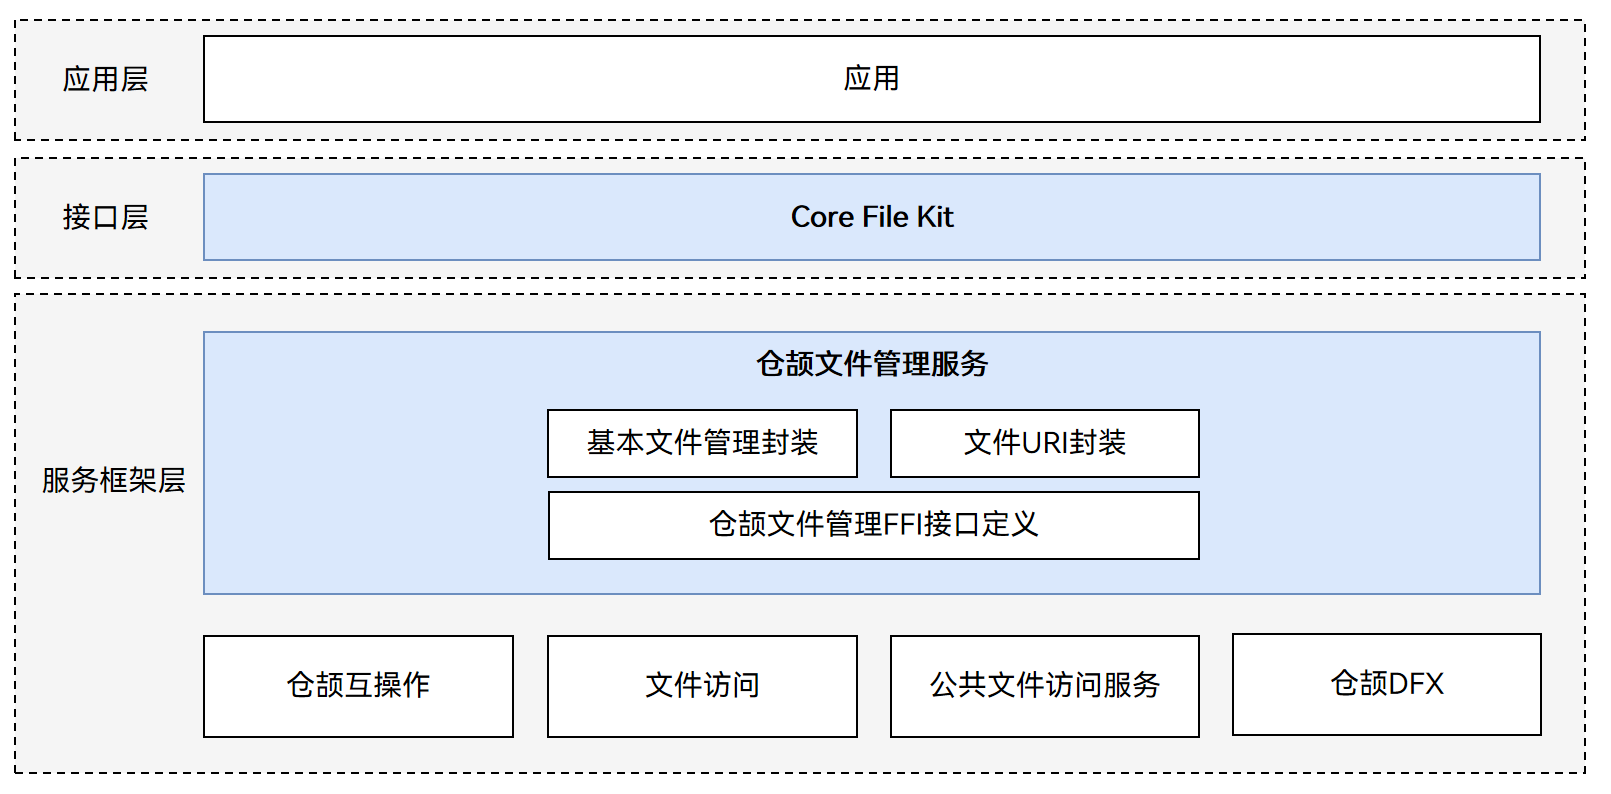
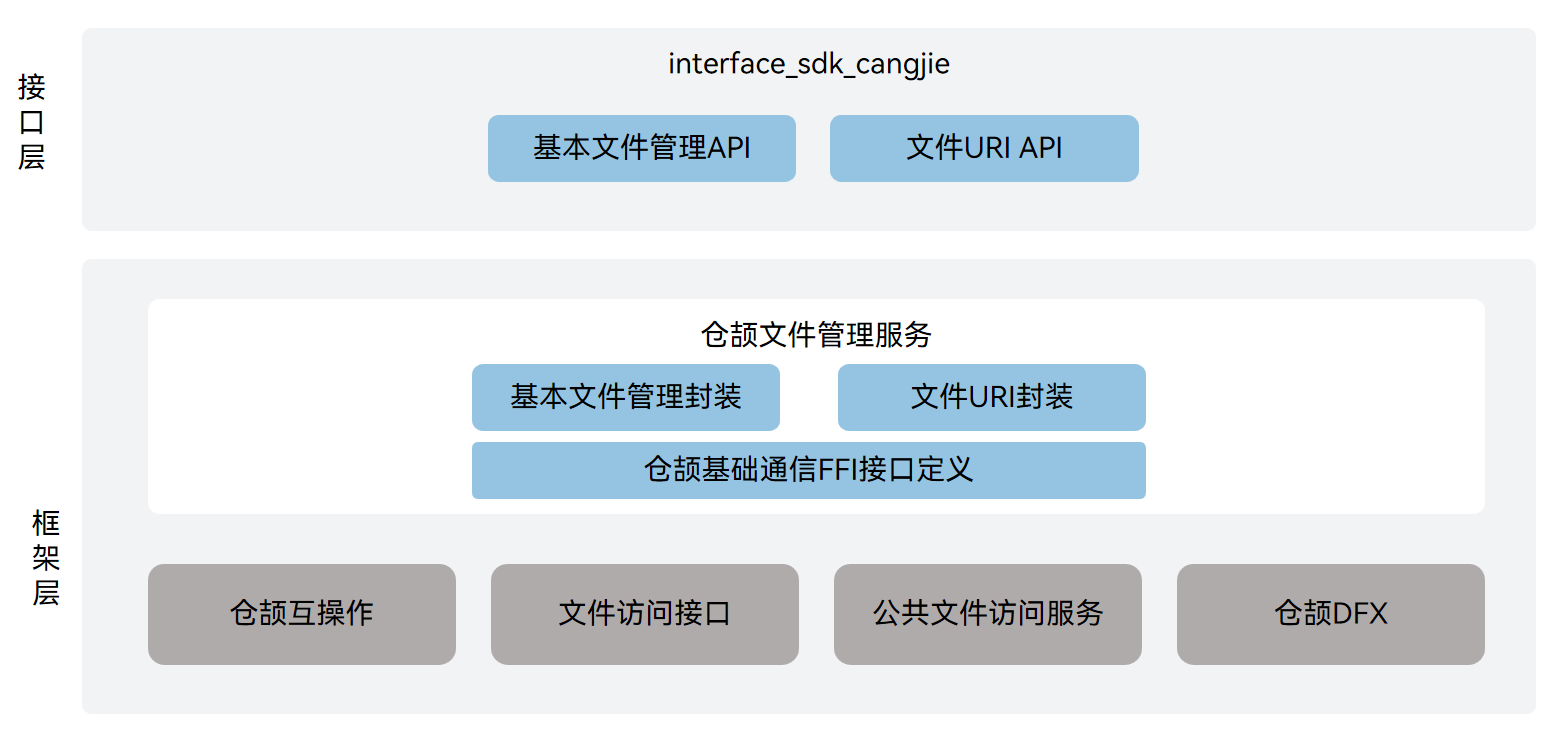
fix the internal review comments

diff --git a/README.md b/README.md
@@ -2,20 +2,32 @@
 
 ## Introduction
 
-The filemanagement_cangjie_wrapper is a Cangjie API encapsulated on OpenHarmony based on the capabilities of the file management Subsystem. The file management subsystem provides a complete file management solution for OpenHarmony. It provides secure and easy-to-use file access and comprehensive file management capabilities. The currently open file management Cangjie api only supports standard devices.
+The filemanagement_cangjie_wrapper is a Cangjie API encapsulated on OpenHarmony based on file access interfaces and public file access framework capabilities. The file management subsystem provides a complete file management solution for OpenHarmony. It provides secure and easy-to-use file access and comprehensive file management capabilities. The currently open file management Cangjie api only supports standard devices.
 
 ## System Architecture
 
 **Figure 1** Architecture of the file management subsystem
 ![filemanagement_cangjie_wrapper architecture](figures/filemanagement_cangjie_wrapper_architecture_en.png)
 
+As shown in the architecture diagram:
+
+Interface layer description:
+
+- Basic File Management API: Cangjie public interfaces based on basic file management encapsulation exposed to users.
+- File URI API: Cangjie public interfaces based on file URI encapsulation exposed to users.
+
+Framework layer description:
+
 - Basic File Management Wrapper: Provides file access capabilities, such as creating files, deleting files, modifying files, obtaining file information, and retrieving file lists.
 - File URI Wrapper: Provides an interface for obtaining the application's own URI.
 - Cangjie File Management FFI Interface Definition: Responsible for defining the C language interoperation interface with Cangjie, which is used to implement Cangjie's file management capabilities.
+
+Cangjie File Management Service Dependencies:
+
 - Cangjie ark interop: Encapsulates public interfaces for C language interoperation, and provides Cangjie tag class implementation for annotating Cangjie APIs, as well as providing BusinessException exception class definitions thrown to users.
-- File Access: Provides C language interfaces for basic files for managing files, basic files for managing directories, and streaming file reading capabilities.
-- Public File Access Services: Provides C language interfaces for file sharing and management service capabilities.
-- Cangjie DFX: Responsible for providing log interfaces for printing logs at critical paths.
+- File Api: Provides C language interfaces that can be called by the file management Cangjie interface for basic files for managing files, basic files for managing directories, and streaming file reading capabilities.
+- User File Service: Provides C language interfaces that can be called by the file management Cangjie interface for file sharing and management service capabilities.
+- Cangjie DFX: Responsible for providing log interfaces, providing Cangjie interfaces that can be called by the file management Cangjie interface to print logs at critical paths.
 
 ## Directory Structure
 
@@ -35,13 +47,6 @@ foundation/filemanagement/filemanagement_cangjie_wrapper
         └── test                      # File URI test project
 ```
 
-## Constraints
-
-Constraints on local I/O APIs:
-
--   Only UTF-8/16 encoding is supported.
--   The URIs cannot include external storage directories.
-
 ## Usage
 
 The current file management Cangjie interface provides the following functions:
@@ -49,19 +54,26 @@ The current file management Cangjie interface provides the following functions:
 - Basic file access capability.
 - File information acquisition capability.
 
-Compared with the API capabilities provided by ArkTS, the following functions are not supported at the moment:
-
-- Storage management functions.
-- Common file function.
-- Distributed capabilities.
-- Application file sharing capabilities.
-
 For filemanagement-related APIs, please refer to:
 
 -   [File Management](https://gitcode.com/openharmony-sig/arkcompiler_cangjie_ark_interop/blob/master/doc/API_Reference/source_en/apis/CoreFileKit/cj-apis-file_fs.md)
 -   [File URI](https://gitcode.com/openharmony-sig/arkcompiler_cangjie_ark_interop/blob/master/doc/API_Reference/source_en/apis/CoreFileKit/cj-apis-file_fileuri.md)
 
 For relevant guidance, please refer to [File Management Usage Guide](https://gitcode.com/openharmony-sig/arkcompiler_cangjie_ark_interop/blob/master/doc/Dev_Guide/source_en/file-management/cj-core-file-kit-intro.md).
+
+## Constraints
+
+Constraints on local I/O APIs:
+
+-   Only UTF-8/16 encoding is supported.
+-   The URIs cannot include external storage directories.
+
+Compared with the API capabilities provided by ArkTS, the following functions are not supported at the moment:
+
+- Storage management functions.
+- Common file function.
+- Distributed capabilities.
+- Application file sharing capabilities.
 
 ## Code Contribution
 

diff --git a/README_zh.md b/README_zh.md
@@ -1,21 +1,33 @@
-# 文件管理仓颉接口
+# 文件管理仓颉封装
 
 ## 简介
 
-文件管理仓颉接口是在OpenHarmony上基于文件管理子系统能力之上封装的仓颉API。文件管理子系统为OpenHarmony提供一套完整的文件数据管理解决方案，提供安全、易用的文件访问能力和完善的文件存储管理能力。当前开放的文件管理仓颉接口仅支持standard设备。
+文件管理仓颉接口是在OpenHarmony上面向开发者进行应用开发使用的文件访问接口、公共文件访问能力的仓颉API实现。为OpenHarmony提供一套文件数据管理解决方案，提供安全、易用的文件访问能力和完善的文件存储管理能力的仓颉API。当前开放的文件管理仓颉接口仅支持standard设备。
 
 ## 系统架构
 
 **图 1**  文件管理仓颉架构图
 ![文件管理仓颉架构图](figures/filemanagement_cangjie_wrapper_architecture_zh.png)
 
-- 基本文件管理封装：提供文件访问能力，如创建文件、删除文件、修改文件、获取文件信息、获取文件列表等。
-- 文件URI封装：提供获取应用自己的URI接口。
+如架构图所示：
+
+接口层说明：
+
+- 基本文件管理API：基于低基本文件管理封装面向开发者开放的仓颉公开接口声明。
+- 文件URI API：基于文件URI封装面向开发者开放的仓颉公开接口声明。
+
+框架层说明：
+
+- 基本文件管理封装：基本文件管理提供文件访问能力，如创建文件、删除文件、修改文件、获取文件信息、获取文件列表等。该封装层是基于文件访问接口对文件管理功能进行仓颉封装实现。
+- 文件URI封装：文件URI提供获取应用自己的URI能力。该封装层是基于公共文件访问服务对文件URI功能进行仓颉封装实现。
 - 仓颉文件管理FFI接口定义：负责定义被Cangjie语言调用的C语言互操作接口，用于实现仓颉文件管理能力。
+
+仓颉文件管理服务依赖部件引入说明：
+
 - 仓颉互操作：封装C语言互操作公共接口，并提供仓颉标签类实现用于对仓颉API进行标注，以及提供抛向用户的BusinessException异常类定义。
-- 文件访问：提供用于管理文件的基本文件，管理目录的基本文件，流式读取文件能力的C语言接口。
-- 公共文件访问服务：提供文件分享和管理服务能力的C语言接口。
-- 仓颉DFX：负责提供日志接口，用于在关键路径处打印日志。
+- 文件访问接口：提供可被文件管理仓颉接口调用的用于管理文件的基本文件，管理目录的基本文件，流式读取文件能力的C语言接口。
+- 公共文件访问服务：提供可被文件管理仓颉接口调用的文件分享和管理服务能力的C语言接口。
+- 仓颉DFX：负责提供日志接口，提供可被文件管理仓颉接口调用的在关键路径处打印日志能力的仓颉接口。
 
 ## 目录
 
@@ -35,13 +47,6 @@ foundation/filemanagement/filemanagement_cangjie_wrapper
         └── test                      # 文件URI测试工程
 ```
 
-## 约束
-
-本地IO接口
-
--   目前仅支持UTF-8/16编码。
--   目前URI暂不支持外部存储目录。
-
 ## 使用说明
 
 当前文件管理仓颉接口提供了以下功能：
@@ -49,19 +54,26 @@ foundation/filemanagement/filemanagement_cangjie_wrapper
 - 基础文件访问能力。
 - 文件信息获取能力。
 
-与ArkTS提供的API能力相比，暂不支持以下功能：
-
-- 存储管理功能。
-- 公共文件功能。
-- 分布式能力。
-- 应用文件分享能力。
-
 文件管理相关API请参见：
 
 -   [文件管理](https://gitcode.com/openharmony-sig/arkcompiler_cangjie_ark_interop/blob/master/doc/API_Reference/source_zh_cn/apis/CoreFileKit/cj-apis-file_fs.md)
 -   [文件URI](https://gitcode.com/openharmony-sig/arkcompiler_cangjie_ark_interop/blob/master/doc/API_Reference/source_zh_cn/apis/CoreFileKit/cj-apis-file_fileuri.md)
 
 相关指导请参见[文件管理使用指导](https://gitcode.com/openharmony-sig/arkcompiler_cangjie_ark_interop/blob/master/doc/Dev_Guide/source_zh_cn/file-management/cj-core-file-kit-intro.md)。
+
+## 约束
+
+本地IO接口
+
+-   目前仅支持UTF-8/16编码。
+-   目前URI暂不支持外部存储目录。
+
+与ArkTS提供的API能力相比，暂不支持以下功能：
+
+- 存储管理功能。
+- 公共文件功能。
+- 分布式能力。
+- 应用文件分享能力。
 
 ## 参与贡献
 
